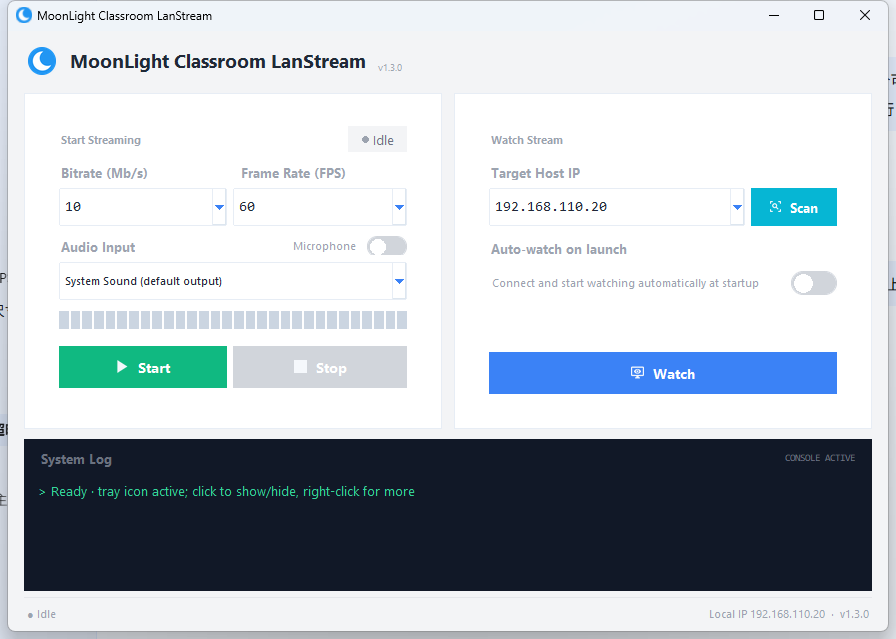
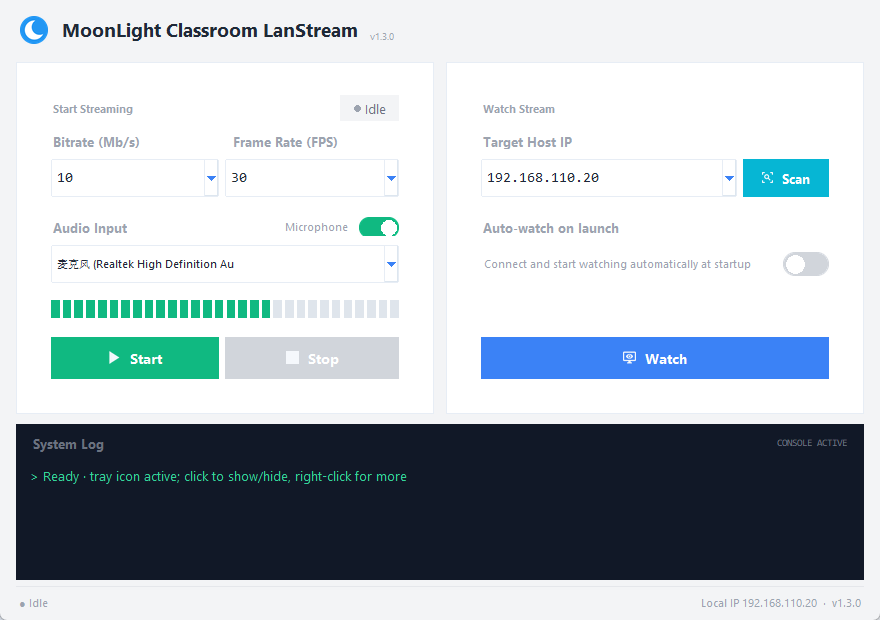
fix(ui): 开播区音频间距拉开、按钮严格水平对齐、电平条实时刷新、麦克风默认开启
- 左右卡片各行 pady 统一 (8,14)/(6,0)/(8,12)/(2,14)，实测 btn_start 与 btn_watch 的 y 完全相同
- 电平衰减移到采集侧（每 80ms 一次），界面读取无副作用，读数不再被刷新频率拉低
- 电平条改为实心分段 + 更清晰的未点亮色，去掉峰值残留
- 选「系统声音」时也用默认麦克风驱动电平显示；麦克风开关默认开启
- 窗口高度 600 → 620 以适应更舒展的间距

diff --git a/lanstream_app.py b/lanstream_app.py
@@ -26,7 +26,7 @@ APP_VERSION = "v1.3.0"
 DEFAULT_HOST = "192.168.110.20"
 
 # 窗口默认尺寸（启动时居中显示）；英文文案更长，窗口相应加宽
-WIN_W, WIN_H = (800, 600) if i18n.is_zh() else (880, 600)
+WIN_W, WIN_H = (800, 620) if i18n.is_zh() else (880, 620)
 # 左右两张卡片共用的行高（保证"开播/停止"与"一键收看"水平对齐）
 ROW_HEAD = 26     # 标题行（标题 + 状态徽章）
 ROW_LAB = 20      # 说明文字行
@@ -339,7 +339,6 @@ class AudioLevel(tk.Canvas):
 
     def set(self, lv):
         self._lv = max(0.0, min(1.0, float(lv)))
-        self._peak = max(self._lv, self._peak * 0.92 - 0.005)
         self._paint()
 
     def _paint(self):
@@ -348,21 +347,20 @@ class AudioLevel(tk.Canvas):
         if w < 24 or h < 6:
             return
         n = self.SEGS
-        gap = 2
+        gap = 3
         seg = max(1.0, (w - gap * (n - 1)) / n)
         lit = int(round(self._lv * n))
-        peak_i = int(round(min(1.0, self._peak) * n))
         for i in range(n):
             x0 = i * (seg + gap)
             x1 = x0 + seg
             if i < n * 0.66:
-                on, off = "#10b981", "#d1fae5"
+                on = "#10b981"
             elif i < n * 0.86:
-                on, off = "#f59e0b", "#fef3c7"
+                on = "#f59e0b"
             else:
-                on, off = "#f43f5e", "#ffe4e6"
-            col = on if i < lit else (off if i < peak_i else "#cbd5e1")
-            self.create_rectangle(x0, 3, x1, h - 3, fill=col, outline="")
+                on = "#f43f5e"
+            self.create_rectangle(x0, 3, x1, h - 3,
+                                  fill=on if i < lit else "#dfe5ec", outline="")
 
 
 class Card(tk.Frame):
@@ -644,7 +642,7 @@ class App:
                   font=(FONT_UI, 10, "bold")).grid(row=0, column=1, sticky="w", padx=(6, 0))
 
         setrow = self._fixed(inner, ROW_MID)
-        setrow.grid(row=2, column=0, sticky="ew", padx=16, pady=(6, 10))
+        setrow.grid(row=2, column=0, sticky="ew", padx=16, pady=(8, 14))
         setrow.columnconfigure(0, weight=1, uniform="s")
         setrow.columnconfigure(1, weight=1, uniform="s")
         setrow.rowconfigure(0, weight=1)
@@ -664,10 +662,10 @@ class App:
 
         # row3 音频标签行：左"音频输入设备"，右侧"麦克风"开关
         alab = self._fixed(inner, ROW_LAB)
-        alab.grid(row=3, column=0, sticky="ew", padx=16)
+        alab.grid(row=3, column=0, sticky="ew", padx=16, pady=(6, 0))
         ttk.Label(alab, text=i18n.t("audio_input"), style="CardDim.TLabel",
                   font=(FONT_UI, 10, "bold")).pack(side="left")
-        self.sw_mic = ToggleSwitch(alab, on=bool(self.state.get("mic")),
+        self.sw_mic = ToggleSwitch(alab, on=bool(self.state.get("mic", True)),
                                    color=GREEN, width=40, height=21,
                                    command=self._on_mic)
         self.sw_mic.pack(side="right", pady=(0, 1))
@@ -677,7 +675,7 @@ class App:
         # row4 音频输入设备下拉（首项=系统声音默认输出）
         self._audio_devs = audio.list_inputs()
         arow = self._fixed(inner, ROW_MID)
-        arow.grid(row=4, column=0, sticky="ew", padx=16, pady=(6, 8))
+        arow.grid(row=4, column=0, sticky="ew", padx=16, pady=(8, 12))
         arow.columnconfigure(0, weight=1)
         arow.rowconfigure(0, weight=1)
         sys_label = i18n.t("audio_system")
@@ -694,13 +692,13 @@ class App:
 
         # row5 横向音频电平指示器
         lvrow = self._fixed(inner, 24)
-        lvrow.grid(row=5, column=0, sticky="ew", padx=16, pady=(0, 10))
+        lvrow.grid(row=5, column=0, sticky="ew", padx=16, pady=(2, 14))
         self.lvl = AudioLevel(lvrow, height=22)
         self.lvl.pack(fill="both", expand=True)
 
         # row6 按钮行（与右侧"一键收看"同一行高）
         btns = tk.Frame(inner, bg=PANEL2)
-        btns.grid(row=6, column=0, sticky="ew", padx=16, pady=(4, 16))
+        btns.grid(row=6, column=0, sticky="ew", padx=16, pady=(2, 16))
         btns.columnconfigure(0, weight=1, uniform="b")
         btns.columnconfigure(1, weight=1, uniform="b")
         self.btn_start = FlatButton(btns, text=i18n.t("start"), icon=self._icons["play"],
@@ -728,7 +726,7 @@ class App:
                   font=(FONT_UI, 10, "bold")).pack(side="left")
 
         mid = self._fixed(inner, ROW_MID)
-        mid.grid(row=2, column=0, sticky="ew", padx=16, pady=(6, 12))
+        mid.grid(row=2, column=0, sticky="ew", padx=16, pady=(8, 14))
         mid.columnconfigure(0, weight=1)
         mid.rowconfigure(0, weight=1)
         self.host_var = tk.StringVar(value=self.state.get("host") or DEFAULT_HOST)
@@ -744,13 +742,13 @@ class App:
                                    font=(FONT_UI, 10, "bold"), command=self.do_scan)
         self.btn_scan.grid(row=0, column=1, sticky="nsew", padx=(6, 0))
 
-        # row3/row4 与左侧画质设置行同高：开机自动收看开关
+        # row3/row4 与左侧音频设置行同高：开机自动收看开关
         lab3 = self._fixed(inner, ROW_LAB)
-        lab3.grid(row=3, column=0, sticky="ew", padx=16)
+        lab3.grid(row=3, column=0, sticky="ew", padx=16, pady=(6, 0))
         ttk.Label(lab3, text=i18n.t("autowatch"), style="CardDim.TLabel",
                   font=(FONT_UI, 10, "bold")).pack(side="left")
         auto = self._fixed(inner, ROW_MID)
-        auto.grid(row=4, column=0, sticky="ew", padx=16, pady=(6, 12))
+        auto.grid(row=4, column=0, sticky="ew", padx=16, pady=(8, 12))
         tk.Label(auto, text=i18n.t("autowatch_tip"),
                  bg=PANEL2, fg=MUT, font=(FONT_UI, 9), anchor="w").pack(
             side="left", fill="both", expand=True)
@@ -760,11 +758,11 @@ class App:
 
         # row5 占位：与左侧音频电平条同高，保证两侧按钮水平对齐
         ph = self._fixed(inner, 24)
-        ph.grid(row=5, column=0, sticky="ew", padx=16, pady=(0, 10))
+        ph.grid(row=5, column=0, sticky="ew", padx=16, pady=(2, 14))
 
         # row6 按钮行
         btns = tk.Frame(inner, bg=PANEL2)
-        btns.grid(row=6, column=0, sticky="ew", padx=16, pady=(4, 16))
+        btns.grid(row=6, column=0, sticky="ew", padx=16, pady=(2, 16))
         btns.columnconfigure(0, weight=1)
         self.btn_watch = FlatButton(btns, text=i18n.t("watch"), icon=self._icons["watch"],
                                     color=ACCENT, height=BTN_H, command=self.do_watch)
@@ -955,25 +953,23 @@ class App:
 
     def _audio_apply(self):
         """按当前选择启动/停止麦克风采集。
-        选「系统声音」= 不采集；选具体设备 = 采集并显示电平，
-        麦克风开关打开时同时回放到默认输出设备，Sunshine 的 loopback 会把它
+        选「系统声音」时用默认麦克风（仅驱动电平指示器，不混入串流）；
+        麦克风开关打开时把采集数据回放到默认输出设备，Sunshine 的 loopback 会把它
         一起串流出去（学生端即可听到老师讲话）。"""
         try:
             m = audio.monitor()
             dev = self.audio_var.get()
-            playback = bool(self.sw_mic.get())
             if dev == i18n.t("audio_system"):
-                # 选「系统声音」：麦克风关闭时完全不采集；打开时用默认麦克风做混入
-                if not playback:
-                    m.stop()
-                    return
-                dev = audio.default_input_name()
-                if not dev:
-                    m.stop()
-                    return
+                dev = audio.default_input_name()      # 系统声音模式：电平用默认麦克风
+            if not dev:
+                m.stop()
+                return
+            playback = bool(self.sw_mic.get())
             if m.is_running() and m.device() == dev and m.playback() == playback:
                 return
-            m.start(dev, playback=playback)
+            ok = m.start(dev, playback=playback)
+            if not ok:
+                _dbg("audio start failed: %s" % m.last_error)
         except Exception:
             pass
 

diff --git a/audio.py b/audio.py
@@ -119,11 +119,10 @@ class MicMonitor:
 
     # ---- 状态 ----
     def level(self):
-        """0.0 ~ 1.0 的输入电平（带峰值回落，便于指示器观感）。"""
+        """0.0 ~ 1.0 的输入电平。读取本身无副作用（衰减放在采集侧），
+        这样界面刷新频率不会影响读数。"""
         with self._lock:
-            v = self._level
-            self._level = v * 0.82            # 每次读取后自然衰减
-            return min(1.0, v)
+            return min(1.0, self._level)
 
     def is_running(self):
         return self._running
@@ -292,8 +291,8 @@ class MicMonitor:
             db = 20.0 * math.log10(max(rms, 1.0) / 32768.0)
             lv = max(0.0, min(1.0, (db + 55.0) / 55.0))
             with self._lock:
-                if lv > self._level:
-                    self._level = lv
+                # 上升快、回落慢，观感接近真实音频表（每 80ms 采样一次）
+                self._level = lv if lv >= self._level else self._level * 0.72
         except Exception:
             pass
 
